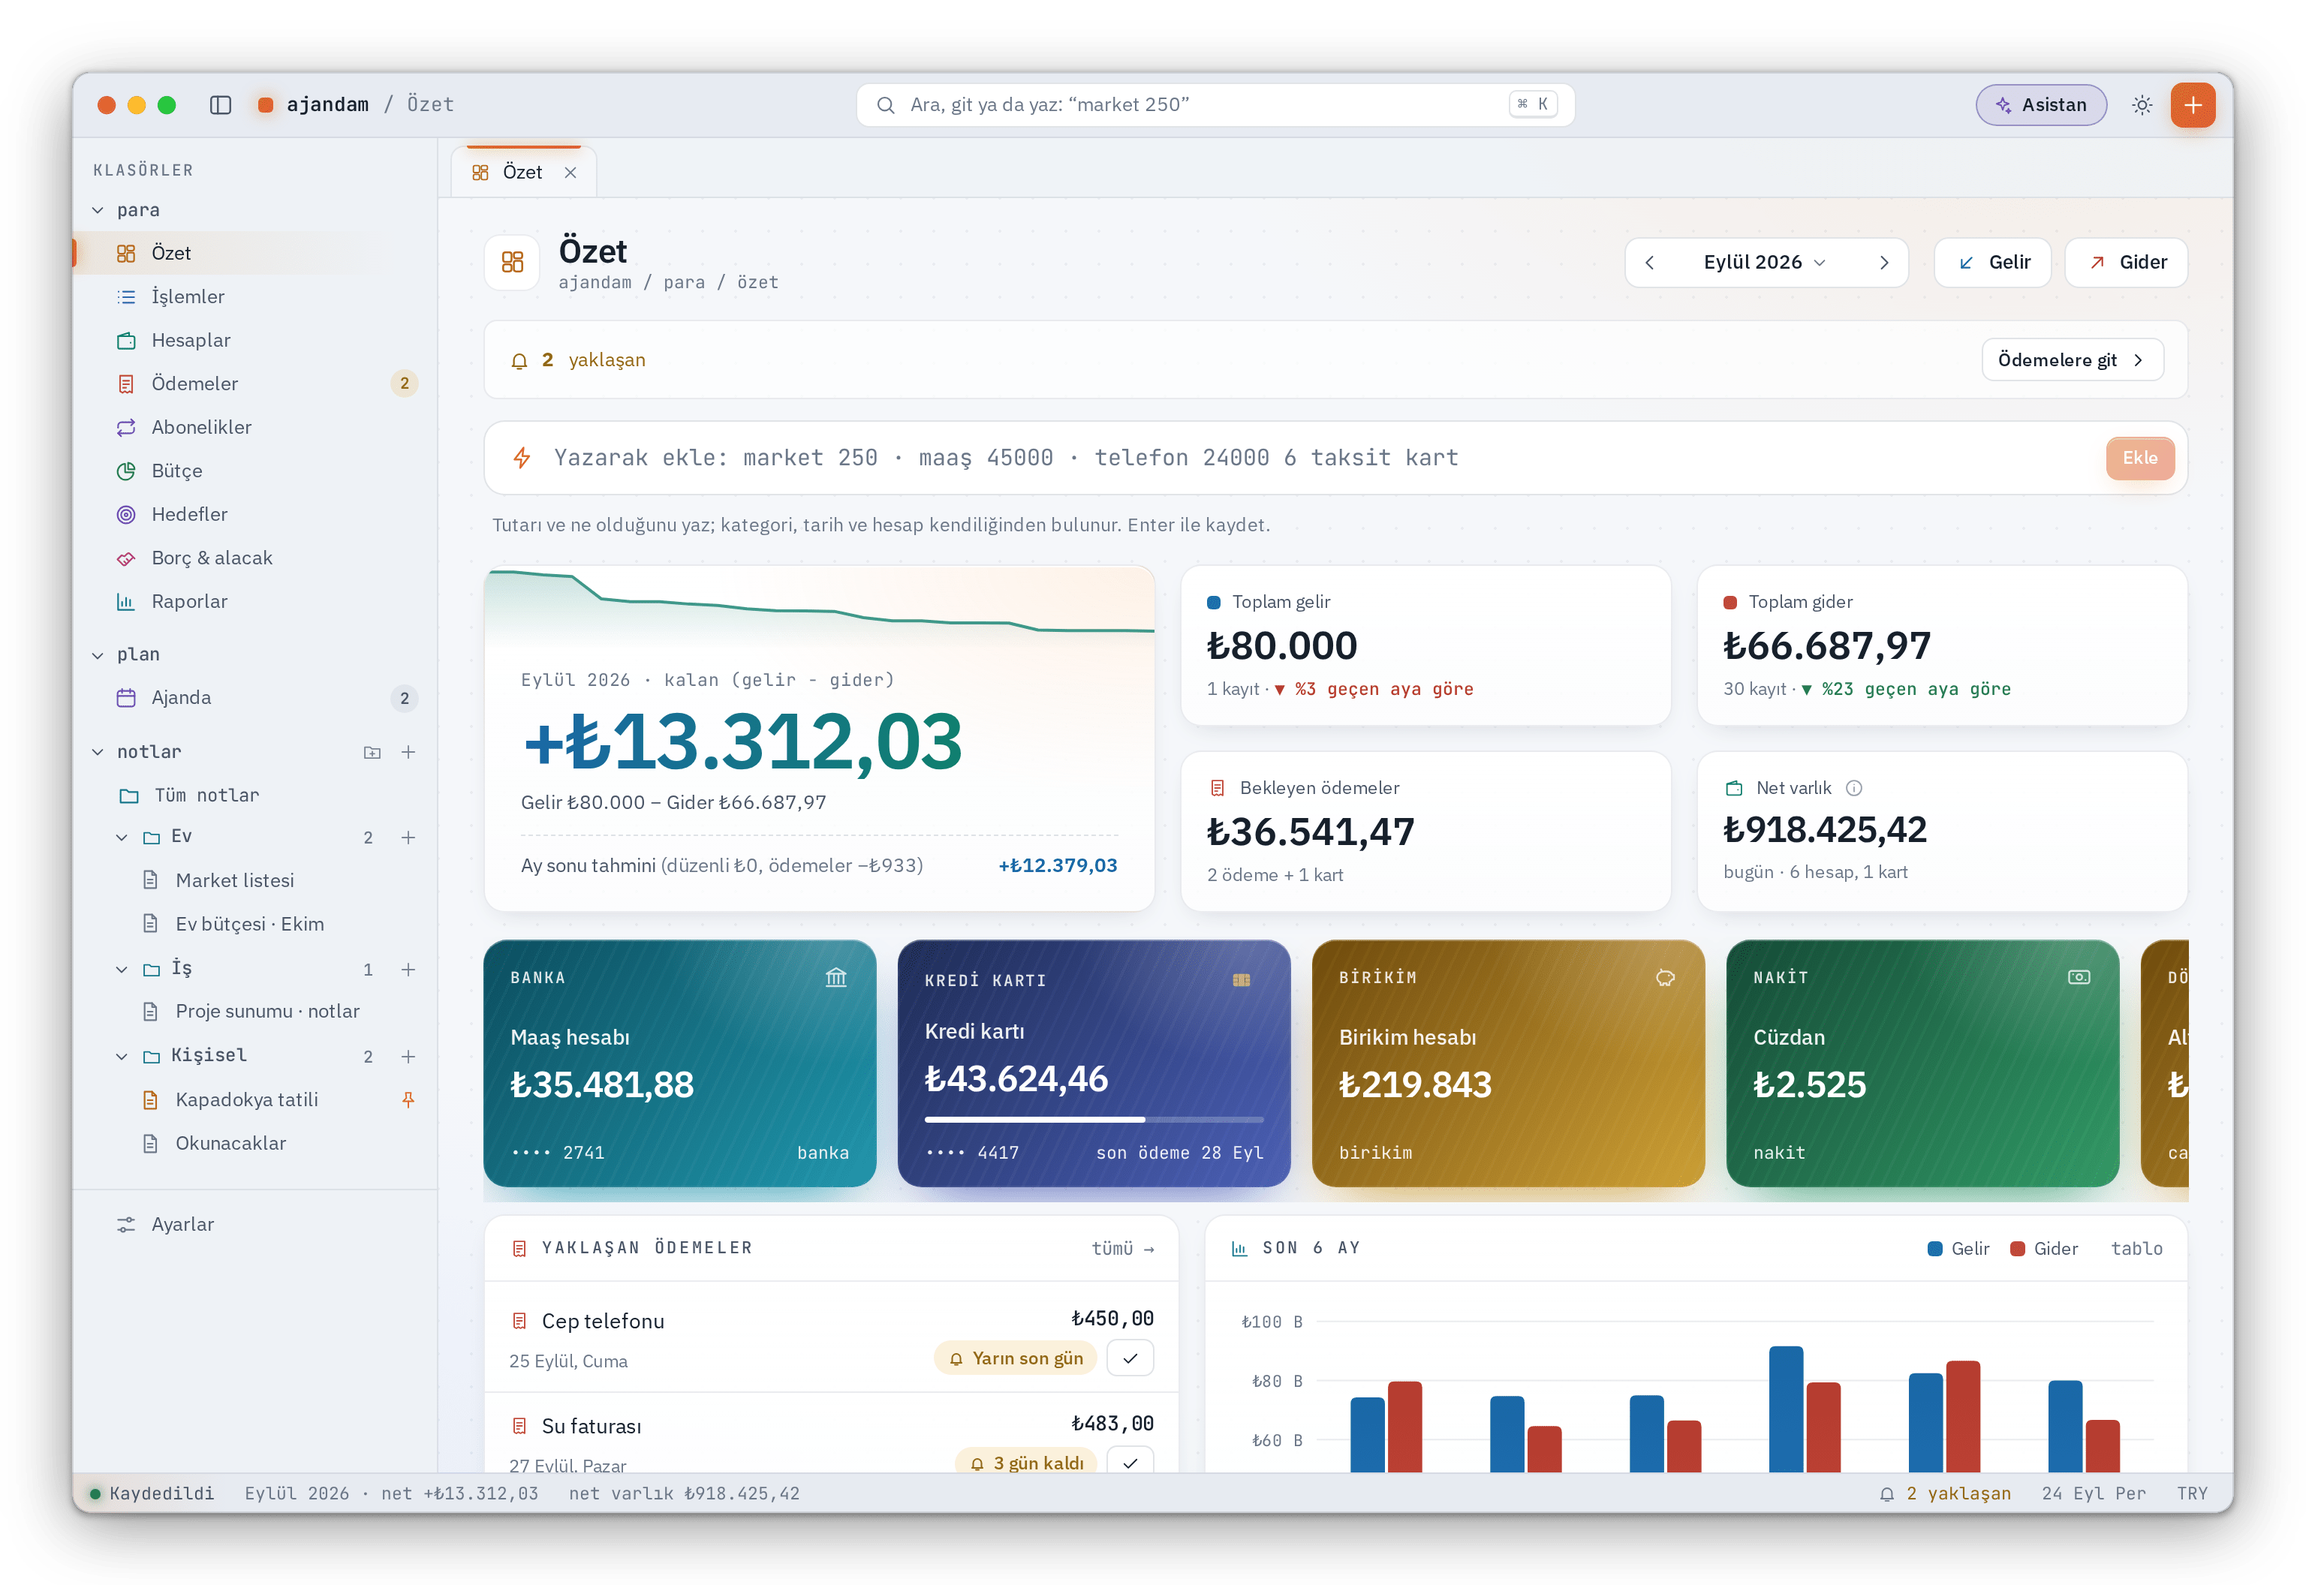
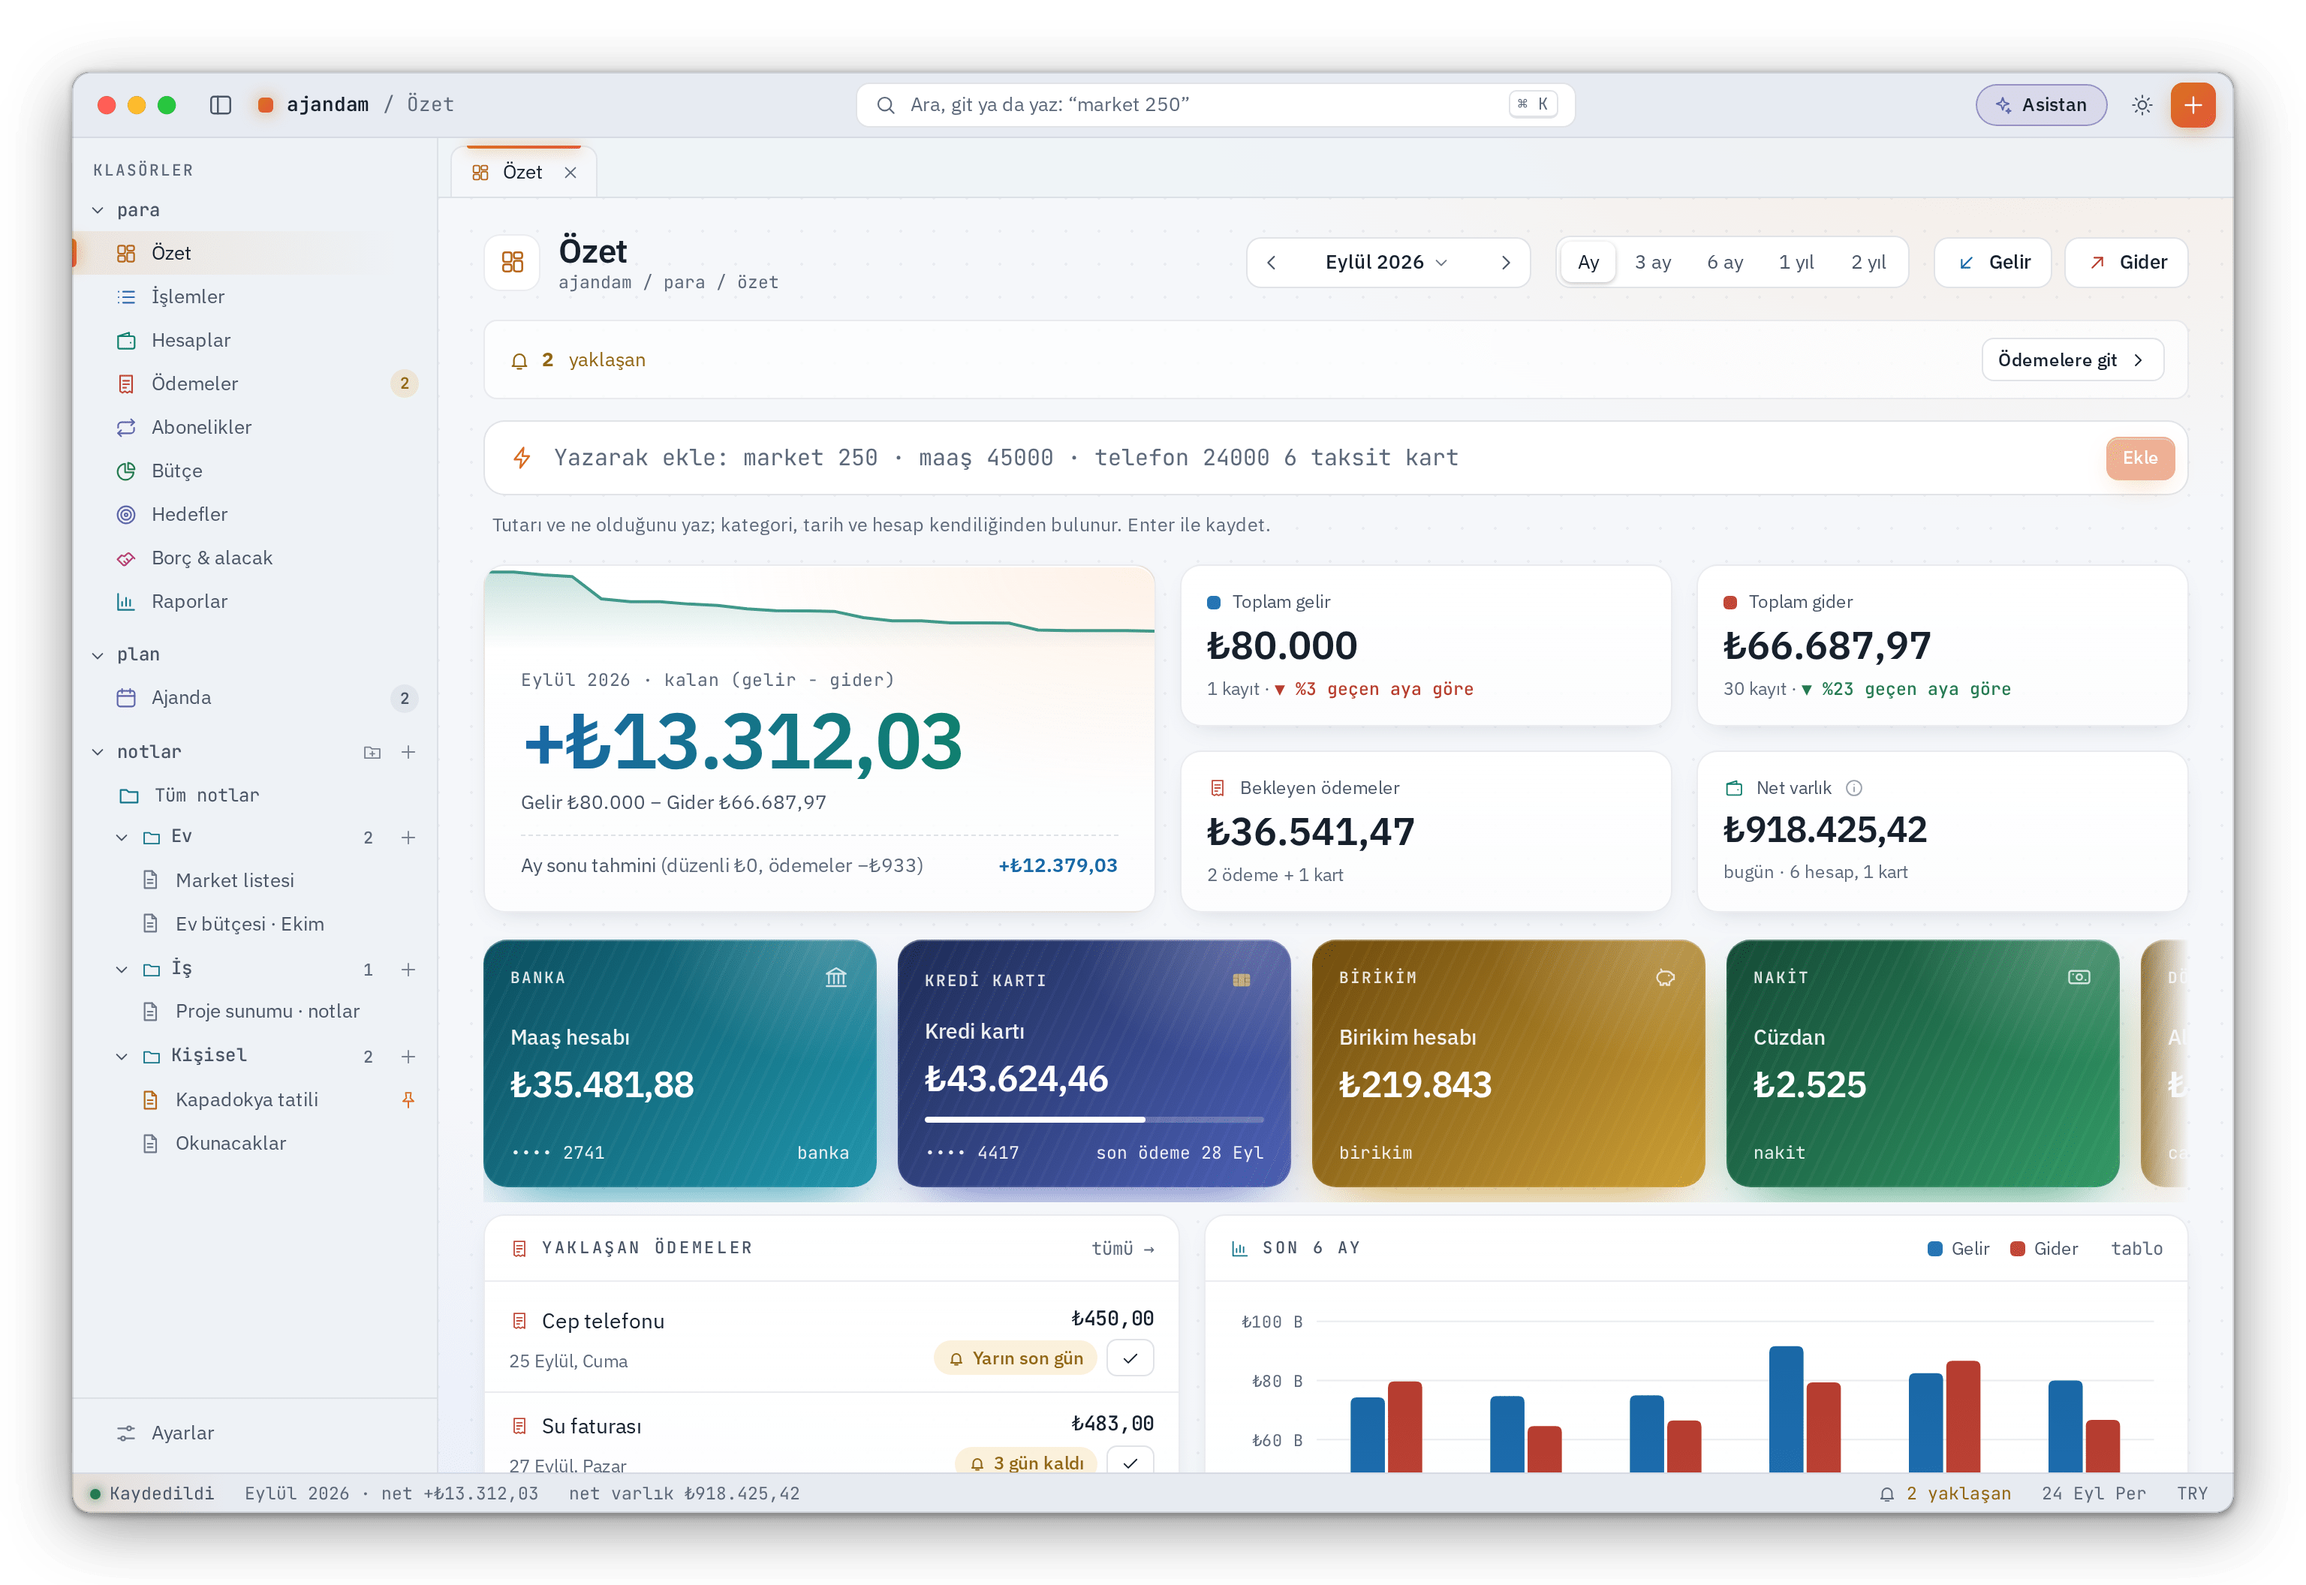
Tanıtım sayfası güncellendi

Changed region(s): [[0.9062, 0.5938, 0.9688, 0.75], [0.75, 0.1562, 0.7812, 0.1875]]

diff --git a/CHANGELOG.md b/CHANGELOG.md
@@ -3,6 +3,32 @@
 Ajandam'ın sürüm notları. Her sürümün ilk bölümü uygulama içindeki güncelleme penceresinde de gösterilir.
 Sürüm numaraları [anlamsal sürümlemeye](https://semver.org/lang/tr/) uyar.
 
+## [3.1.0] – 2026-10-01
+
+- **Sağ tık menüleri:** hesap kartına, işleme, ödemeye, düzenli kayda, aboneliğe, etkinliğe, hedefe, borca, bütçe satırına, nota, klasöre, sekmeye ya da takvim gününe sağ tıklayınca o şeyle ilgili işlemler açılır: düzenle, bakiyeyi güncelle, harcama ekle, öde, IBAN'ı kopyala, varsayılan hesap yap, arşivle. Boş yerde yeni kayıt, arama ve Asistan. Klavyeden ⇧F10 ile de açılır. Yazı alanlarında Kes, Kopyala, Yapıştır kalır; işe yaramayan "Yeniden Yükle" kalktı.
+- **Özet dönemleri:** Özet tek ay yerine son 3 ay, 6 ay, 1 yıl ya da 2 yıl için de gösterilir ve önceki dönemle karşılaştırılır; [ ve ] dönem kadar kayar.
+- **Kart görseli:** hesabı düzenlerken kartına Mac'inden bir resim ekleyebilirsin; kartın sağ üst köşesinde görünür.
+- **⌘Z ile geri al:** sildiğin kaydı, arşivlediğin hesabı, kaldırdığın kategoriyi ⌘Z ile geri getirirsin.
+- **İşlemi her ay tekrarla:** bir işleme sağ tıklayıp "Her ay tekrarla…" dersen tutarı, kategorisi ve hesabıyla düzenli kayıt olur.
+- **Ekler açılır:** kayda eklenmiş fiş ya da fatura (PDF, fotoğraf) tıklayınca Mac'indeki uygulamasında açılır.
+- **Daha sağlam kayıt ve yedek:** bozulan bir kayıt dosyası en yeni yedekten geri yüklenir ve haber verilir. Yedekten dönüş yarıda kalırsa hiçbir dosya değişmez. Ajandam iki kez açılmaz. iCloud Drive yedekleri her Mac için ayrı klasörde tutulur.
+- **Güvenlik:** ChatGPT oturumu Mac'inin Anahtar Zinciri'nde saklanır. Excel dökümleri sayfadan ayrı bir işçide okunur.
+
+**Düzeltmeler**
+- Kart taksitleri ay sonuna yakın alışverişlerde aynı ekstreye iki kez düşebiliyordu; artık her ekstreye bir taksit düşer.
+- Hafta sonuna ya da tatile denk gelen kart son ödeme günü Özet'te, Hesaplar'da ve bildirimlerde de ilk iş gününe kayar.
+- Hesap seçmeden girilmiş eski kayıtlar, varsayılan hesap değişince o hesaba kayıyordu; artık girildikleri hesapta kalır.
+- Bütçe'deki ay sonu tahmini ileri tarihli giderleri de harcama hızına katıyordu; rapor CSV'si ileri tarihli kayıtları sayıyordu.
+- Nakit akışı tahmini, ödenmemiş son ekstreyi bir sonraki ekstrede yeniden borç sayıyordu.
+- Duraklatılan düzenli kayıt sürdürülünce aradaki aylar toplu kaydediliyordu; başlangıç tarihi değişen düzenli kayıt aynı ayı iki kez üretebiliyordu.
+- Ayın 29'u, 30'u ya da 31'inde yenilenen abonelikler sonraki aylarda yanlış güne düşüyordu; faturaya bağlı ödemeler abonelik sanılabiliyordu.
+- "25,000" gibi yazılan tutarlar 25 lira sayılıyordu.
+- Ödenmiş ekstrede kart araçları hâlâ asgari ödeme gösteriyordu. Ay özetinde gelir artışı kırmızı görünüyordu.
+- Hedeften biriken paradan fazlası çekilebiliyor, borca kalandan fazla ödeme girilebiliyor, etkinliğin bitişi başlangıcından önce olabiliyordu.
+- Ekstre penceresi, yanlışlıkla arka plana tıklayınca yüklenen dökümlerle birlikte kapanıyordu; artık Esc'ye iki kez basınca kapanır.
+- Anımsatıcılar: Ajandam'da "ödendi"yi geri alınca, kapalı anımsatıcı yüzünden ödeme yeniden ödendi sayılıyordu; artık anımsatıcı yeniden açılır.
+- Açık temada soluk yazılar daha okunaklı; uzun hesap ve not adları taşmıyor; uzun pencereler kaydırılıyor. Pencere kapanınca odak açan düğmeye döner; menüler ok tuşları, Home, End ve Esc ile kullanılır.
+
 ## [3.0.1] – 2026-10-01
 
 - **ChatGPT ile giriş:** ChatGPT hesabınla giriş yapınca Asistan ve döküm okuma ChatGPT'nin modelleriyle çalışır. Kullanım ChatGPT planından düşer, API anahtarı gerekmez; kayıt özetleri yalnızca izin verirsen gönderilir.

diff --git a/README.md b/README.md
@@ -83,6 +83,10 @@ arttı mı görürsün. Kira artışı, yenilemeden önceki ayın TÜFE 12 aylı
 
 <table>
   <tr>
+    <td width="50%" valign="top"><img src="docs/ekran/sag-tik.png" alt="Hesap kartında sağ tık menüsü"><br><b>Sağ tık menüleri</b><br><sub>Hesapta, işlemde, ödemede, notta ve takvim gününde o şeye ait işlemler.</sub></td>
+    <td width="50%" valign="top"><img src="docs/ekran/ozet-donem.png" alt="Özet ekranı, son 6 ay"><br><b>Özet dönemleri</b><br><sub>Tek ay ya da son 3, 6, 12, 24 ay; önceki dönemle karşılaştırmalı.</sub></td>
+  </tr>
+  <tr>
     <td width="50%" valign="top"><img src="docs/ekran/hesaplar.png" alt="Hesaplar ve kredi kartı"><br><b>Hesaplar ve kartlar</b><br><sub>Kart limiti, kullanılabilir tutar, gelecek taksitler ve ekstre durumu.</sub></td>
     <td width="50%" valign="top"><img src="docs/ekran/ajanda.png" alt="Ajanda, ay görünümü"><br><b>Ajanda</b><br><sub>Etkinlikler, yapılacaklar, ödeme günleri, resmî tatiller ve arifeler.</sub></td>
   </tr>
@@ -102,15 +106,16 @@ arttı mı görürsün. Kira artışı, yenilemeden önceki ayın TÜFE 12 aylı
 
 - **Para:** gelir ve gider, hesaplar arası transfer, kredi kartları (kesim ve son ödeme günü, taksit, asgari ödeme),
   düzenli kayıtlar, ödemeler ve faturalar, abonelikler (kendiliğinden yakalanır), bütçe, hedefler, borç ve alacak.
-- **Raporlar:** genel görünüm, nakit akışı tahmini, ay özeti, net varlık, enflasyon.
+- **Raporlar:** genel görünüm, nakit akışı tahmini, ay özeti, net varlık, enflasyon. Özet tek ay ya da son 3 ay,
+  6 ay, 1 yıl, 2 yıl için; önceki dönemle karşılaştırmalı.
 - **Hızlı ekleme:** "market 250", "telefon 24000 6 taksit kart" yaz; kategori, tarih ve hesap kendiliğinden bulunur.
   Her uygulamanın üstünde ⌃⌥A ile küçük ekleme penceresi açılır; menü çubuğundan da eklersin.
 - **İçe aktarma:** banka ve kart dökümleri (PDF, Excel), fiş fotoğrafı, CSV dışa aktarma, tam yedek ve geri yükleme.
 - **Ajanda:** ay, hafta ve liste görünümü; tekrar eden etkinlikler, yapılacaklar, hatırlatmalar. İstersen
   Anımsatıcılar üzerinden iPhone'una da düşer.
 - **Notlar:** Markdown, yapılacak listeleri, tablolar, etiketler, klasörler, sabitleme, yazdırma.
-- **Mac:** bildirimlerde "Ödendi" ve "Yarın hatırlat", Dock rozeti, Touch ID kilidi, sürükle-bırak, klavye
-  kısayolları, açık ve koyu tema.
+- **Mac:** her şeyde sağ tık menüsü (hesap, işlem, ödeme, not, takvim günü), ⌘Z ile geri alma, bildirimlerde
+  "Ödendi" ve "Yarın hatırlat", Dock rozeti, Touch ID kilidi, sürükle-bırak, klavye kısayolları, açık ve koyu tema.
 
 ## Kurulum
 

diff --git a/SECURITY.md b/SECURITY.md
@@ -24,8 +24,8 @@ tıkla kurulduğu için çoğu kullanıcı düzeltmeyi birkaç gün içinde alı
 - **Yapay zeka:**
   - Apple Intelligence ve yerel modeller (Ollama, LM Studio) Mac'in dışına veri göndermez.
   - ChatGPT ile giriş yaptıysan Asistan, soruların için gereken özetleri ve okuttuğun dökümlerin metnini OpenAI'ye
-    gönderir; izin ayarı kapalıyken her seferinde sorar. ChatGPT oturum bilgileri yalnızca bu Mac'te, yalnızca senin
-    kullanıcı hesabının okuyabildiği bir dosyada (0600) durur.
+    gönderir; izin ayarı kapalıyken her seferinde sorar. ChatGPT oturumu yalnızca bu Mac'te durur: giriş jetonları
+    macOS Anahtar Zinciri'nde, e-posta adresin yalnızca senin kullanıcı hesabının okuyabildiği bir dosyada (0600).
   - Claude ve diğer MCP uygulamaları yalnızca **Ayarlar › Yapay zeka › Yapay zeka uygulamaları bağlanabilir** açıksa
     bağlanabilir. Bağlantı, yalnızca senin kullanıcı hesabının erişebildiği bir Unix soketi (0600) üzerinden olur;
     Ajandam kilitliyken istek cevaplanmaz. Yapay zekanın önerdiği eklemeler ve değişiklikler senin onayını bekler.
